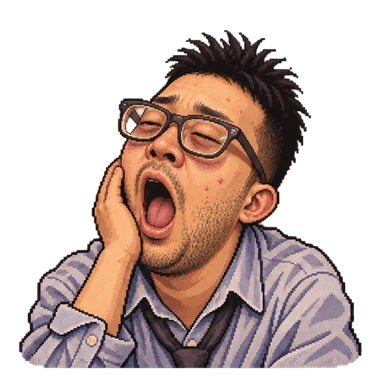
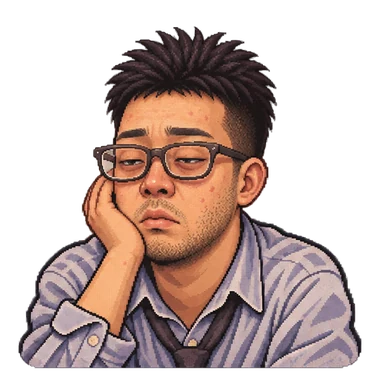
표정 다양한 그림을 기본으로, 하품 그림은 상황별로 교체
- 기본: 나이대·엔딩 새 그림 (v2)
- 하품 그림(yawn/): 컨디션 35% 미만, 쉬기, 캐릭터 누르기 때 잠깐
- 엔딩 화면·도감 그림을 누르면 두 표정이 번갈아 바뀜

Changed region(s): [[0.0312, 0.0625, 0.9375, 0.9688], [0.625, 0.9375, 0.6562, 0.9688]]

diff --git a/app.js b/app.js
@@ -28,13 +28,34 @@ function save() {
 }
 
 /* ---------- 희범이 그림 (나이대 4장, 엔딩 24장) ---------- */
-// 입힌 옷과 소품은 그림 위 스티커로 보여 준다
-const stageImg = (stage) => `img/stages/${stage}.webp`;
-const endingImg = (id) => `img/endings/${id}.webp`;
-function portrait(stage, outfit, acc) {
+// 기본은 표정이 다양한 그림, 하품하는 그림(yawn/)은 상황에 따라 바꿔 보여 준다:
+// 컨디션이 낮을 때, 쉬기를 했을 때, 캐릭터를 눌렀을 때 잠깐. 엔딩 그림은 누르면 서로 바뀐다.
+const TIRED = 35;
+const stageImg = (stage, yawn) => `img/stages/${yawn ? 'yawn/' : ''}${stage}.webp`;
+const endingImg = (id, yawn) => `img/endings/${yawn ? 'yawn/' : ''}${id}.webp`;
+let yawnUntil = 0;
+const isYawning = () => state.cond < TIRED || Date.now() < yawnUntil;
+function yawn(ms = 1800) {
+  yawnUntil = Date.now() + ms;
+  render();
+  setTimeout(render, ms + 30);
+}
+// 누르면 표정이 바뀌는 그림 (엔딩 화면, 도감)
+const swapImg = (id, cls = '', size = 384) =>
+  `<button type="button" class="swap ${cls}" aria-label="표정 바꾸기"><img src="${endingImg(id)}" data-alt="${endingImg(id, true)}" alt="" width="${size}" height="${size}" loading="lazy"></button>`;
+document.addEventListener('click', (e) => {
+  const img = e.target.closest('.swap')?.querySelector('img');
+  if (!img) return;
+  const now = img.getAttribute('src');
+  img.setAttribute('src', img.dataset.alt);
+  img.dataset.alt = now;
+  beep(760, 0.05);
+});
+
+function portrait(stage, outfit, acc, yawning) {
   const item = (id) => L.GALLERY.find((g) => g.id === id);
-  const stickers = [outfit !== 'basic' && item(outfit)?.icon, acc && item(acc)?.icon].filter(Boolean);
-  return `<img src="${stageImg(stage)}" alt="" width="384" height="384">` +
+  const stickers = [outfit !== 'basic' && item(outfit)?.icon, acc && item(acc)?.icon, yawning && '💤'].filter(Boolean);
+  return `<img src="${stageImg(stage, yawning)}" alt="" width="384" height="384">` +
     stickers.map((e, i) => `<span class="sticker s${i}" aria-hidden="true">${e}</span>`).join('');
 }
 
@@ -76,8 +97,8 @@ function render() {
     <span class="chip">💰 <b>${s.money.toLocaleString()}</b></span>
     <span class="chip">🏅 <b>${s.awards}</b></span>`;
   $('ribbon').textContent = s.ending ? '엔딩' : `${s.day}일째, ${L.dateLabel(s.day)}, ${L.ageOf(s.day)}살`;
-  $('sprite').innerHTML = portrait(stage.id, s.outfit, s.acc);
-  $('sprite').setAttribute('aria-label', `${s.name}, ${stage.name}`);
+  $('sprite').innerHTML = portrait(stage.id, s.outfit, s.acc, isYawning());
+  $('sprite').setAttribute('aria-label', `${s.name}, ${stage.name}. 눌러서 말 걸기`);
   $('stageTag').textContent = stage.name;
   $('sonName').textContent = s.name;
   $('tags').innerHTML = `<span class="tag">${country.flag} ${country.name}</span>` +
@@ -149,7 +170,7 @@ function render() {
   $('dexCount').textContent = `${seen.length}/${L.ENDING_IDS.length}`;
   $('dex').innerHTML = L.ENDING_IDS.map((id) => {
     const e = L.ENDINGS[id], has = seen.includes(id);
-    return `<div class="dex-item ${has ? '' : 'locked'} ${e.bad ? 'bad' : ''}">${has ? `<img src="${endingImg(id)}" alt="" width="384" height="384" loading="lazy">` : '<span aria-hidden="true">❔</span>'}${has ? e.title : `${e.bad ? '배드 엔딩' : e.group || '직업'} ???`}</div>`;
+    return `<div class="dex-item ${has ? '' : 'locked'} ${e.bad ? 'bad' : ''}">${has ? swapImg(id, 'dex-img') : '<span aria-hidden="true">❔</span>'}${has ? e.title : `${e.bad ? '배드 엔딩' : e.group || '직업'} ???`}</div>`;
   }).join('');
 
   $('settingsForm').sound.checked = s.sound;
@@ -157,6 +178,16 @@ function render() {
 }
 
 function say(text) { $('bubble').textContent = text; }
+// 캐릭터를 누르면 잠깐 하품
+$('sprite').addEventListener('click', () => {
+  if (state.ending) return;
+  say(state.cond < TIRED ? '너무 졸려… 좀 쉬고 싶어' : '하암… 왜 불러?');
+  beep(330, 0.12);
+  yawn();
+});
+// 하품 그림 미리 불러 두기 (바뀔 때 깜빡이지 않게)
+for (const st of L.STAGES) new Image().src = stageImg(st.id, true);
+
 function hop() { const el = $('sprite'); el.classList.remove('hop'); void el.offsetWidth; el.classList.add('hop'); }
 
 function floats(deltas) {
@@ -285,6 +316,7 @@ $('actions').addEventListener('click', (e) => {
   const res = L.doAction(state, b.dataset.act);
   if (!res.error) beep(520 + Math.random() * 300);
   afterChange(res);
+  if (!res.error && b.dataset.act === 'rest') { say('하아암… 잘 잤다'); yawn(2200); }
   if (!res.error && state.cond <= 15) toast(`${L.SON.nick}이가 많이 지쳤어요. 이대로 하루를 마치면 지친 날로 기록돼요.`);
 });
 
@@ -327,7 +359,7 @@ function showEnding() {
   jingle(e.bad ? [392, 349, 330, 262] : state.ending === 'champion' ? [523, 659, 784, 1046, 1318] : [523, 659, 784, 1046]);
   say(e.bad ? '…' : '키워 줘서 고마워!');
   const badge = e.bad ? '<p class="m-badge bad">배드 엔딩</p>' : '<p class="m-badge">직업 엔딩</p>';
-  modal(`<img class="m-art" src="${endingImg(state.ending)}" alt="${e.title}이 된 희범" width="384" height="384">${badge}<p class="m-title">${e.title}</p>
+  modal(`${swapImg(state.ending, 'm-art')}<p class="m-hint">그림을 누르면 표정이 바뀌어요</p>${badge}<p class="m-title">${e.title}</p>
     <p class="m-sub">${L.COUNTRIES[state.country].flag} ${esc(state.name)}, ${L.ageOf(L.DAYS)}살</p>
     <p class="m-text">${e.text(state)}</p>
     <ul class="m-list stats-end">${L.STATS.map((t) => `<li>${t.name}<b>${state.stats[t.key]}</b></li>`).join('')}<li>받은 상장<b>${state.awards}개</b></li><li>지친 날<b>${state.burnout}번</b></li></ul>`,

diff --git a/style.css b/style.css
@@ -105,7 +105,7 @@ button:disabled { cursor: not-allowed; }
   background: radial-gradient(ellipse at 50% 0, rgba(255,255,255,.85), transparent 65%);
   pointer-events: none;
 }
-.sprite { width: min(140px, 96%); margin-bottom: 0; position: relative; animation: bob 2.4s ease-in-out infinite; }
+.sprite { width: min(140px, 96%); margin-bottom: 0; padding: 0; border: 0; background: none; cursor: pointer; position: relative; animation: bob 2.4s ease-in-out infinite; }
 .sprite img {
   display: block; width: 100%; height: auto; aspect-ratio: 1;
   filter: drop-shadow(0 3px 0 rgba(30, 58, 51, .35));
@@ -341,9 +341,12 @@ legend { font-family: var(--display); font-size: 16px; margin-bottom: 6px; }
   border-radius: 14px; border: 2px solid var(--ink); background: var(--paper); font-family: var(--display); font-size: 12px; line-height: 1.25;
 }
 .dex-item span { font-size: 24px; height: 72px; display: grid; place-items: center; }
-.dex-item img { width: 72px; height: 72px; }
+.dex-img img { width: 72px; height: 72px; display: block; }
 .dex-item.locked { border-style: dashed; color: var(--ink-soft); background: transparent; }
 .dex-item.bad:not(.locked) { background: #3A3A44; color: #fff; }
 
-.m-art { display: block; width: 190px; height: 190px; margin: -8px auto 0; filter: drop-shadow(0 4px 0 rgba(30, 58, 51, .3)); }
+.swap { display: block; padding: 0; border: 0; background: none; cursor: pointer; border-radius: 16px; }
+.m-hint { font-size: 12px; color: var(--ink-soft); margin-top: -6px; }
+.m-art { display: block; width: 190px; height: 190px; margin: -8px auto 0; }
+.m-art img { width: 100%; height: 100%; filter: drop-shadow(0 4px 0 rgba(30, 58, 51, .3)); }
 .m-art.small { width: 140px; height: 140px; }

diff --git a/index.html b/index.html
@@ -28,7 +28,7 @@
           <p class="ribbon" id="ribbon"></p>
           <div class="stage">
             <div class="spot" aria-hidden="true"></div>
-            <div class="sprite" id="sprite" role="img"></div>
+            <button type="button" class="sprite" id="sprite"></button>
             <p class="bubble" id="bubble" aria-live="polite"></p>
             <div class="floats" id="floats" aria-hidden="true"></div>
           </div>

diff --git a/README.md b/README.md
@@ -41,6 +41,10 @@
 
 - `img/stages/`: 애기범, 꼬마범, 사춘기범, 어른범. 홈 화면 무대에 서 있는 모습이 나이대마다 바뀌어요.
 - `img/endings/`: 엔딩 24가지 각각의 모습. 엔딩 화면과 엔딩 도감에 나와요.
+- `yawn/` 폴더: 같은 그림의 하품하는 버전이에요. 상황에 따라 기본 그림과 바뀌어요.
+  - 컨디션이 35% 아래면 하품하는 얼굴과 💤
+  - 쉬기를 하거나 캐릭터를 누르면 잠깐 하품했다가 돌아옴
+  - 엔딩 화면과 도감에서 그림을 누르면 두 표정이 번갈아 바뀜
 
 원본 PNG는 투명 배경의 거의 투명한 잔여 픽셀을 지우고 384px WebP로 줄여서 넣었어요 (메타데이터 없음).
 입힌 옷과 소품은 그림 위 스티커로 보여요.
